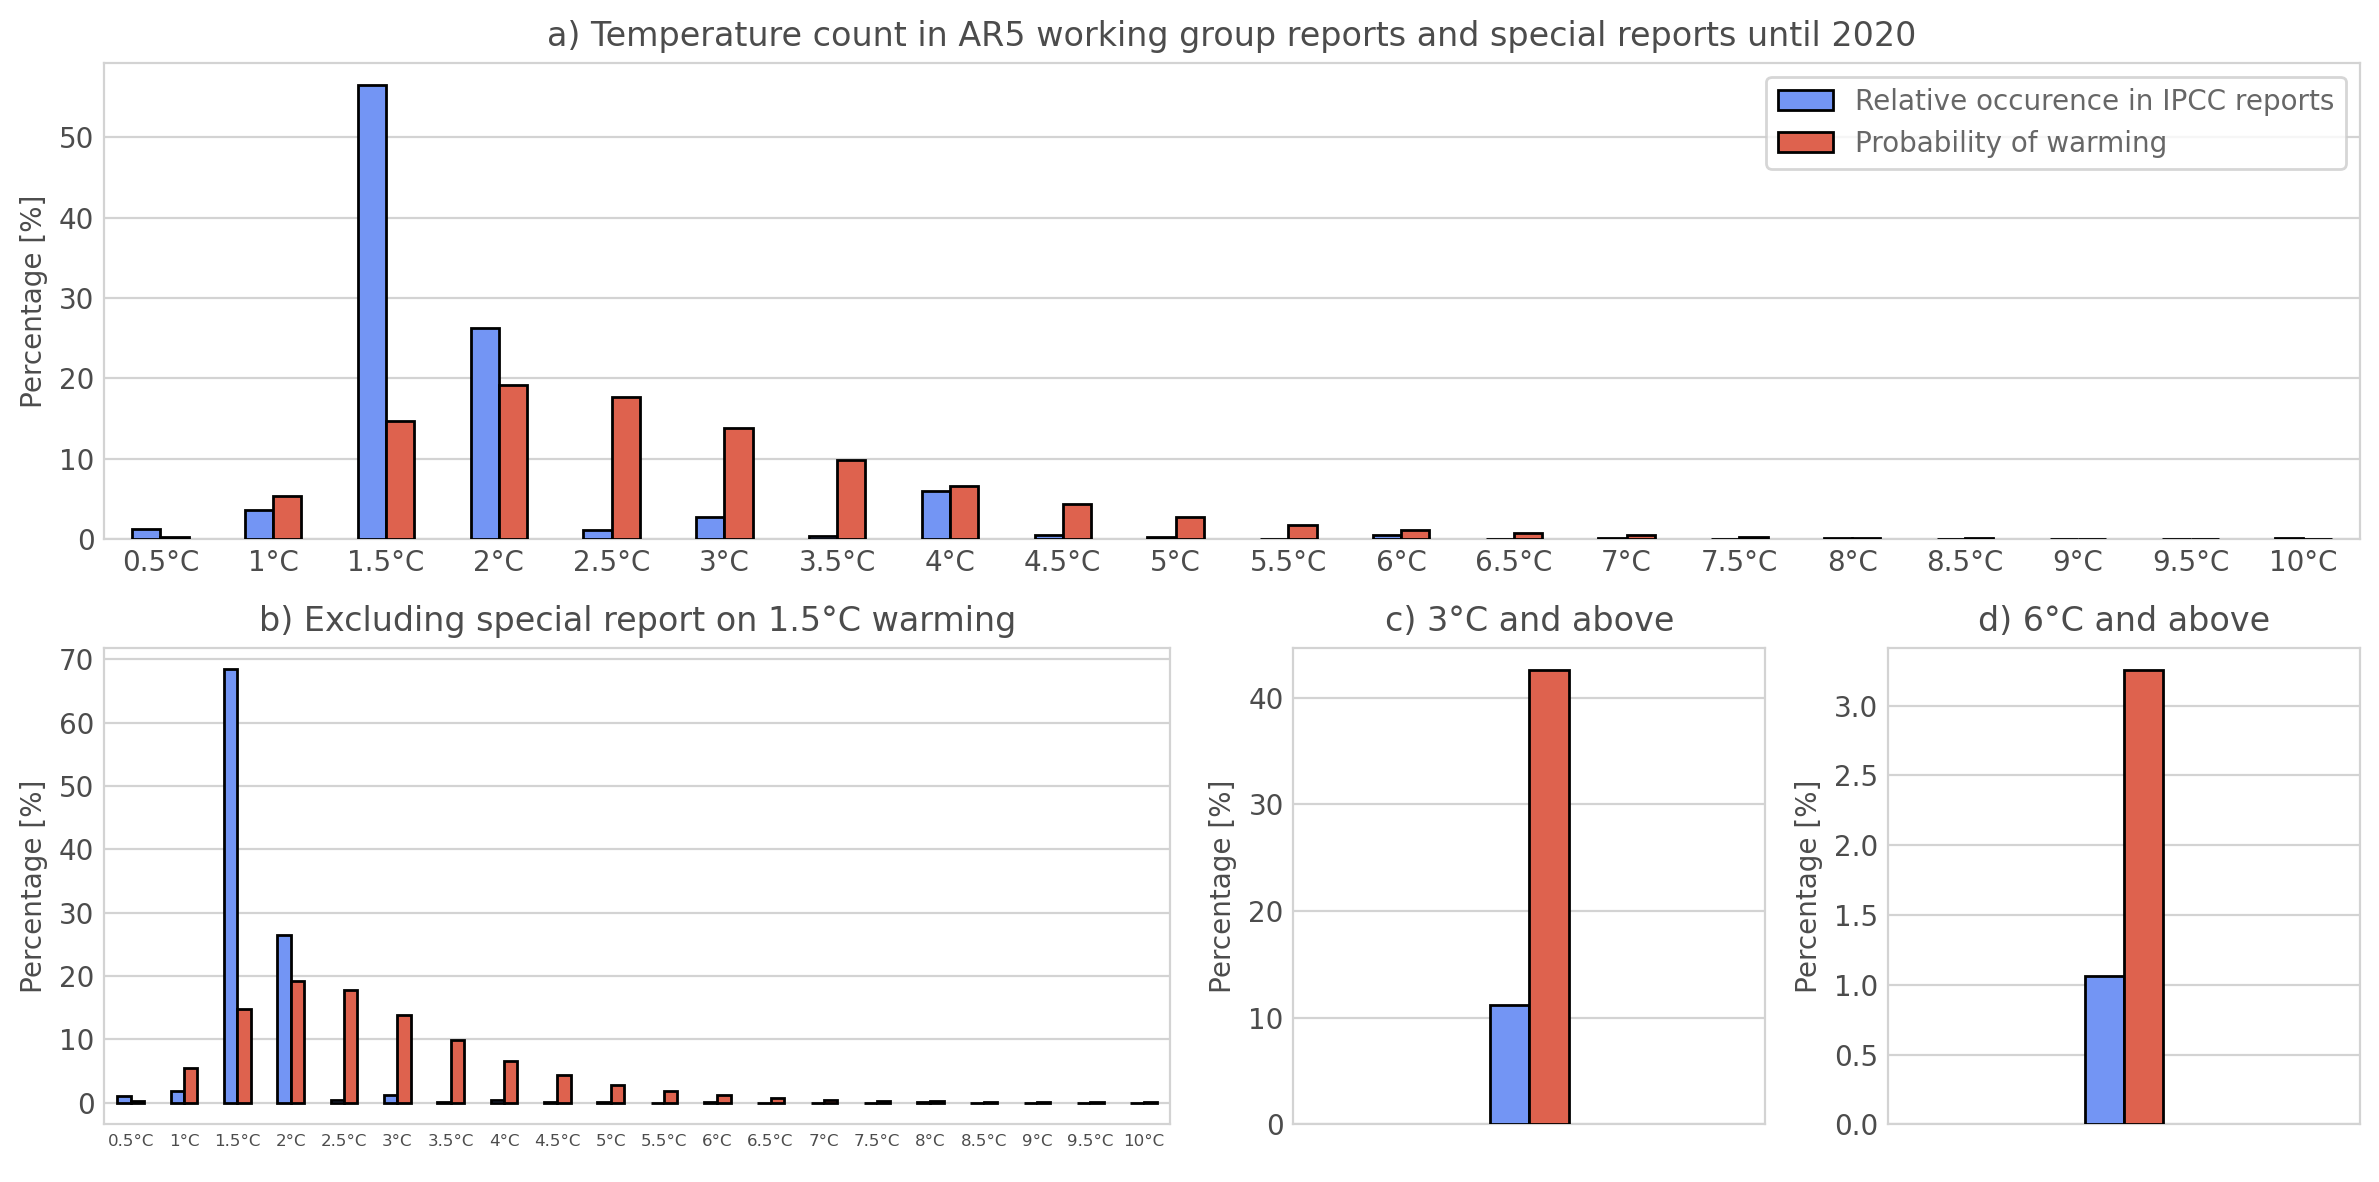
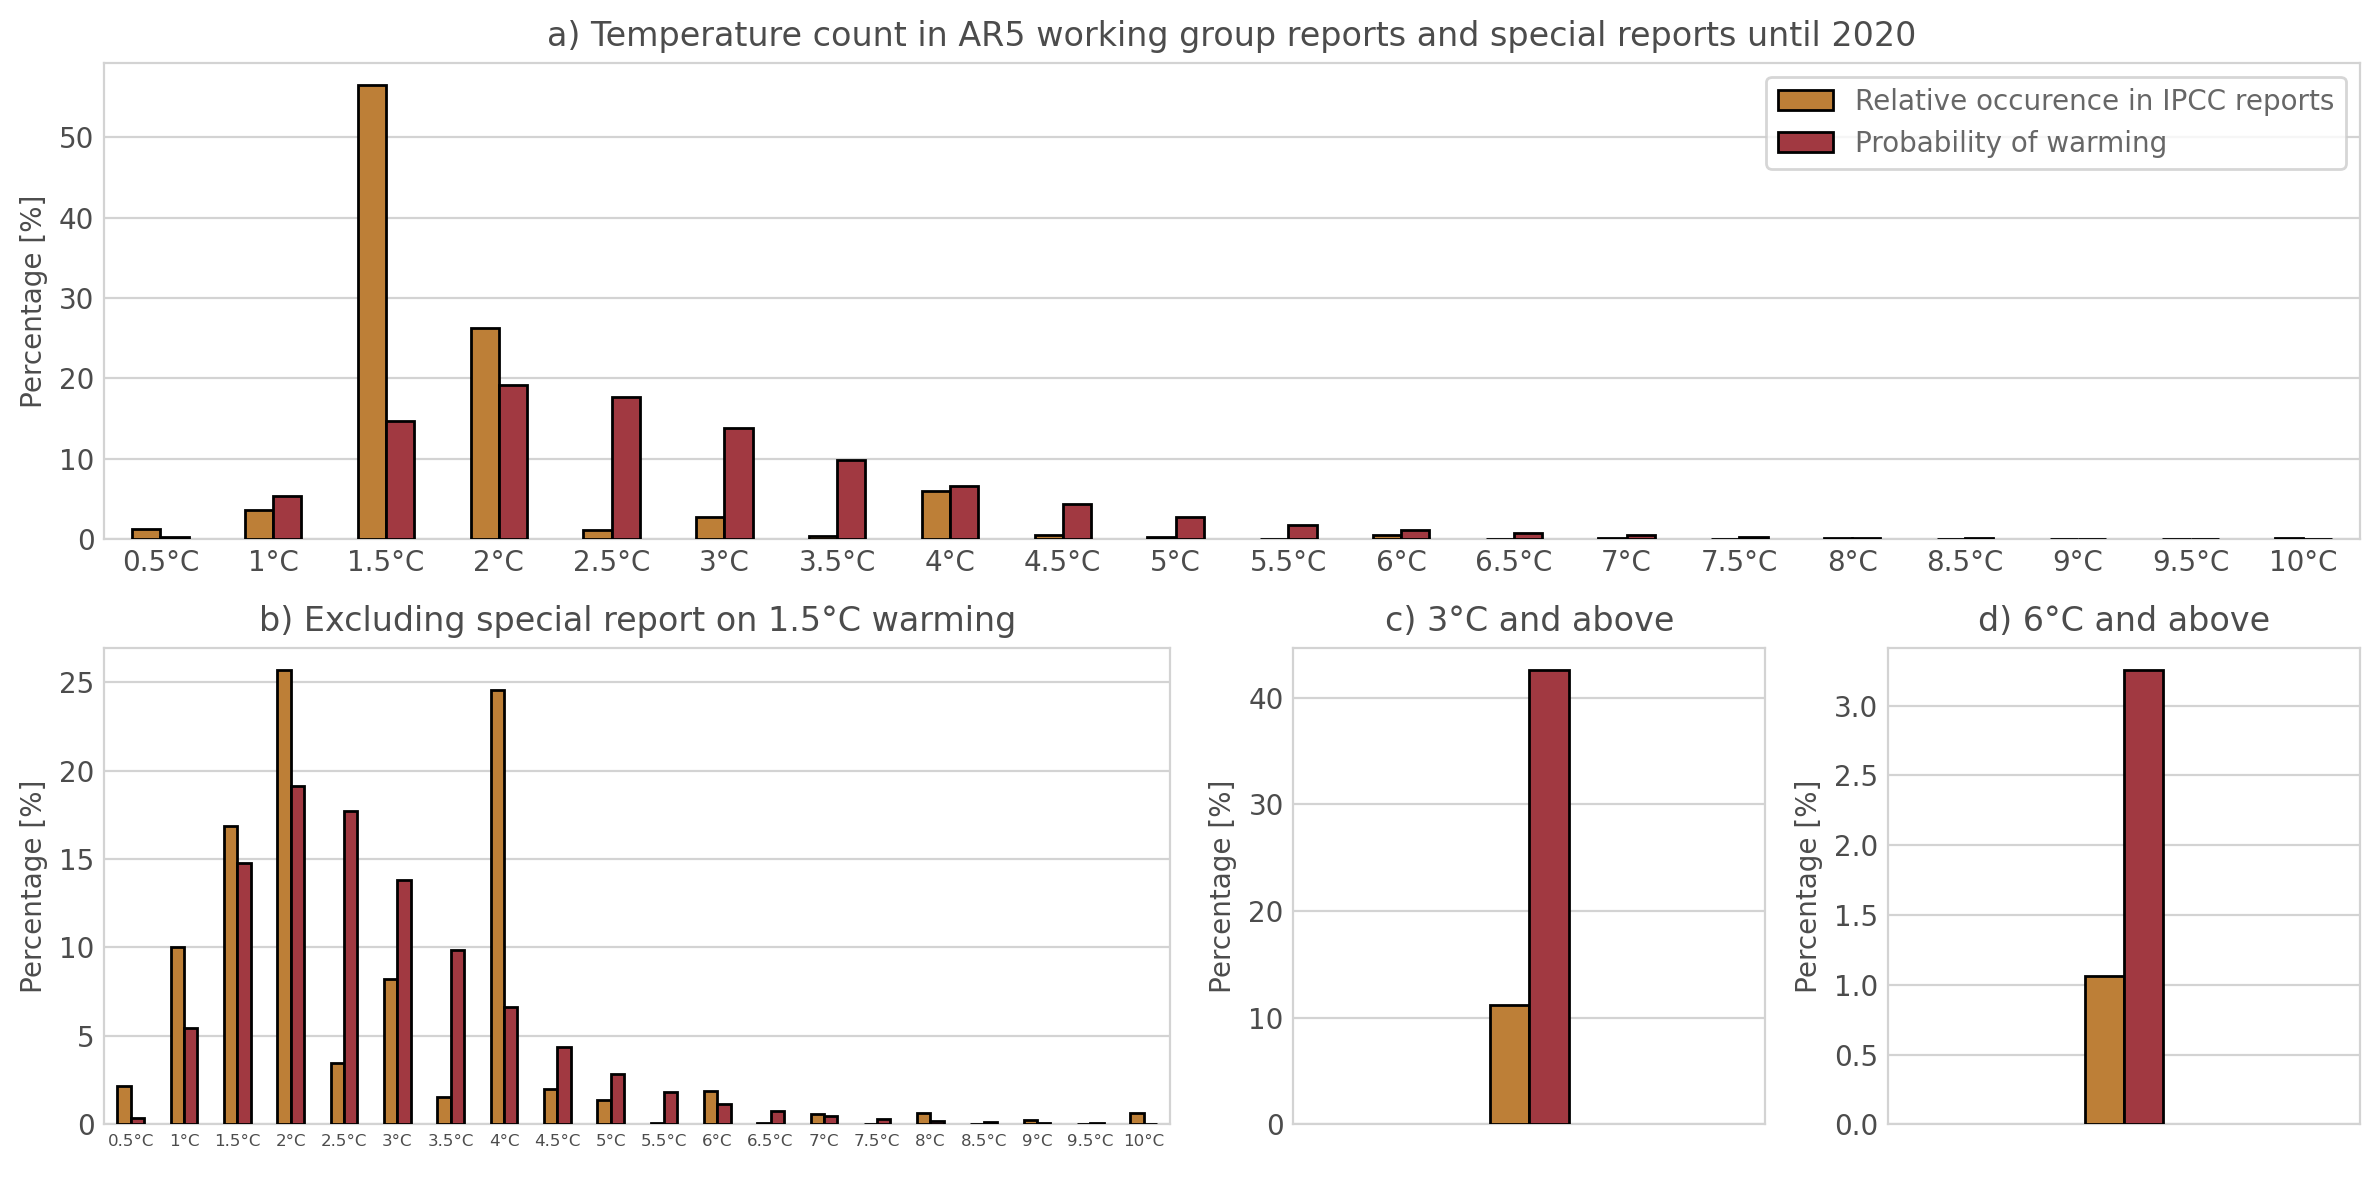
Updated colors

diff --git a/comparison_plot.py b/comparison_plot.py
@@ -68,9 +68,9 @@ def prepare_data(prob_temp, ipcc_counts, counts_1_5_report):
     ##### Preparation for the total counts
     ipcc_total = ipcc_counts.sum()
     # Convert counts to percent
-    ipcc_counts[ipcc_counts.columns[0]] = (ipcc_counts / ipcc_total) * 100
+    ipcc_counts_percent = (ipcc_counts / ipcc_total) * 100
     # merge
-    compare_df = ipcc_counts.merge(prob_temp,left_index=True, right_index=True)
+    compare_df = ipcc_counts_percent.merge(prob_temp,left_index=True, right_index=True)
     compare_df.columns = ["Relative occurence in IPCC reports", "Probability of warming"]
     
     ##### Preparation for the >=6°C and >=3°C Plot
@@ -80,7 +80,7 @@ def prepare_data(prob_temp, ipcc_counts, counts_1_5_report):
     return compare_df, compare_df_without_1_5, over_3, over_6
 
 
-def plot_figures(compare_df, compare_df_without_1_5, over_3, over_6, ppm):  
+def plot_figures(compare_df, compare_df_without_1_5, over_3, over_6, ppm, color_prob, color_count):  
     """Plots the main figures for the different ppm"""  
     # Create a gridspec to plot in
     fig = plt.figure()
@@ -91,21 +91,21 @@ def plot_figures(compare_df, compare_df_without_1_5, over_3, over_6, ppm):
     ax4 = fig.add_subplot(gs[1,3])
     
     ##### Plot the total count
-    compare_df.plot(kind="bar", ax=ax1,zorder=5, color=["#7395F4", "#DE624E"], edgecolor="black" )
+    compare_df.plot(kind="bar", ax=ax1,zorder=5, color=[color_prob, color_count], edgecolor="black" )
     ax1.set_title("a) Temperature count in AR5 working group reports and special reports until 2020")
         
     #### Plot without the 1.5 special report
-    compare_df_without_1_5.plot(kind="bar", ax=ax2, legend=False,zorder=5, color=["#7395F4", "#DE624E"], edgecolor="black")
+    compare_df_without_1_5.plot(kind="bar", ax=ax2, legend=False,zorder=5, color=[color_prob, color_count], edgecolor="black")
     ax2.set_title("b) Excluding special report on 1.5°C warming")
     plt.setp(ax2.xaxis.get_majorticklabels(), fontsize=6)
        
     #### Plot 3
-    over_3.plot(kind="bar", ax=ax3, width=0.1, legend=False,zorder=5, color=["#7395F4", "#DE624E"], edgecolor="black")
+    over_3.plot(kind="bar", ax=ax3, width=0.1, legend=False,zorder=5, color=[color_prob, color_count], edgecolor="black")
     ax3.set_title("c) 3°C and above")
     plt.setp(ax3.xaxis.get_majorticklabels(), color="white")
      
     #### Plot only 6 degrees and above
-    over_6.plot(kind="bar", ax=ax4, width=0.1, legend=False,zorder=5, color=["#7395F4", "#DE624E"], edgecolor="black")
+    over_6.plot(kind="bar", ax=ax4, width=0.1, legend=False,zorder=5, color=[color_prob, color_count], edgecolor="black")
     ax4.set_title("d) 6°C and above")
     plt.setp(ax4.xaxis.get_majorticklabels(), color="white")
     
@@ -129,13 +129,15 @@ def plot_figures(compare_df, compare_df_without_1_5, over_3, over_6, ppm):
 if __name__ == "__main__":
     # Read the data
     ipcc_counts, counts_1_5_report = read_counts()
-    
+    color_prob = "#BD7F37FF"
+    color_count = "#A13941FF"
     # Run for all ppm
     for ppm in np.arange(400, 1001, 50):
         prob_temp = read_probability(ppm)
         compare_df, compare_df_without_1_5, over_3, over_6 = prepare_data(
             prob_temp, ipcc_counts, counts_1_5_report)
-        plot_figures(compare_df, compare_df_without_1_5, over_3, over_6, ppm)
+        plot_figures(compare_df, compare_df_without_1_5, over_3, over_6, ppm, 
+                     color_prob, color_count)
         
     
     
